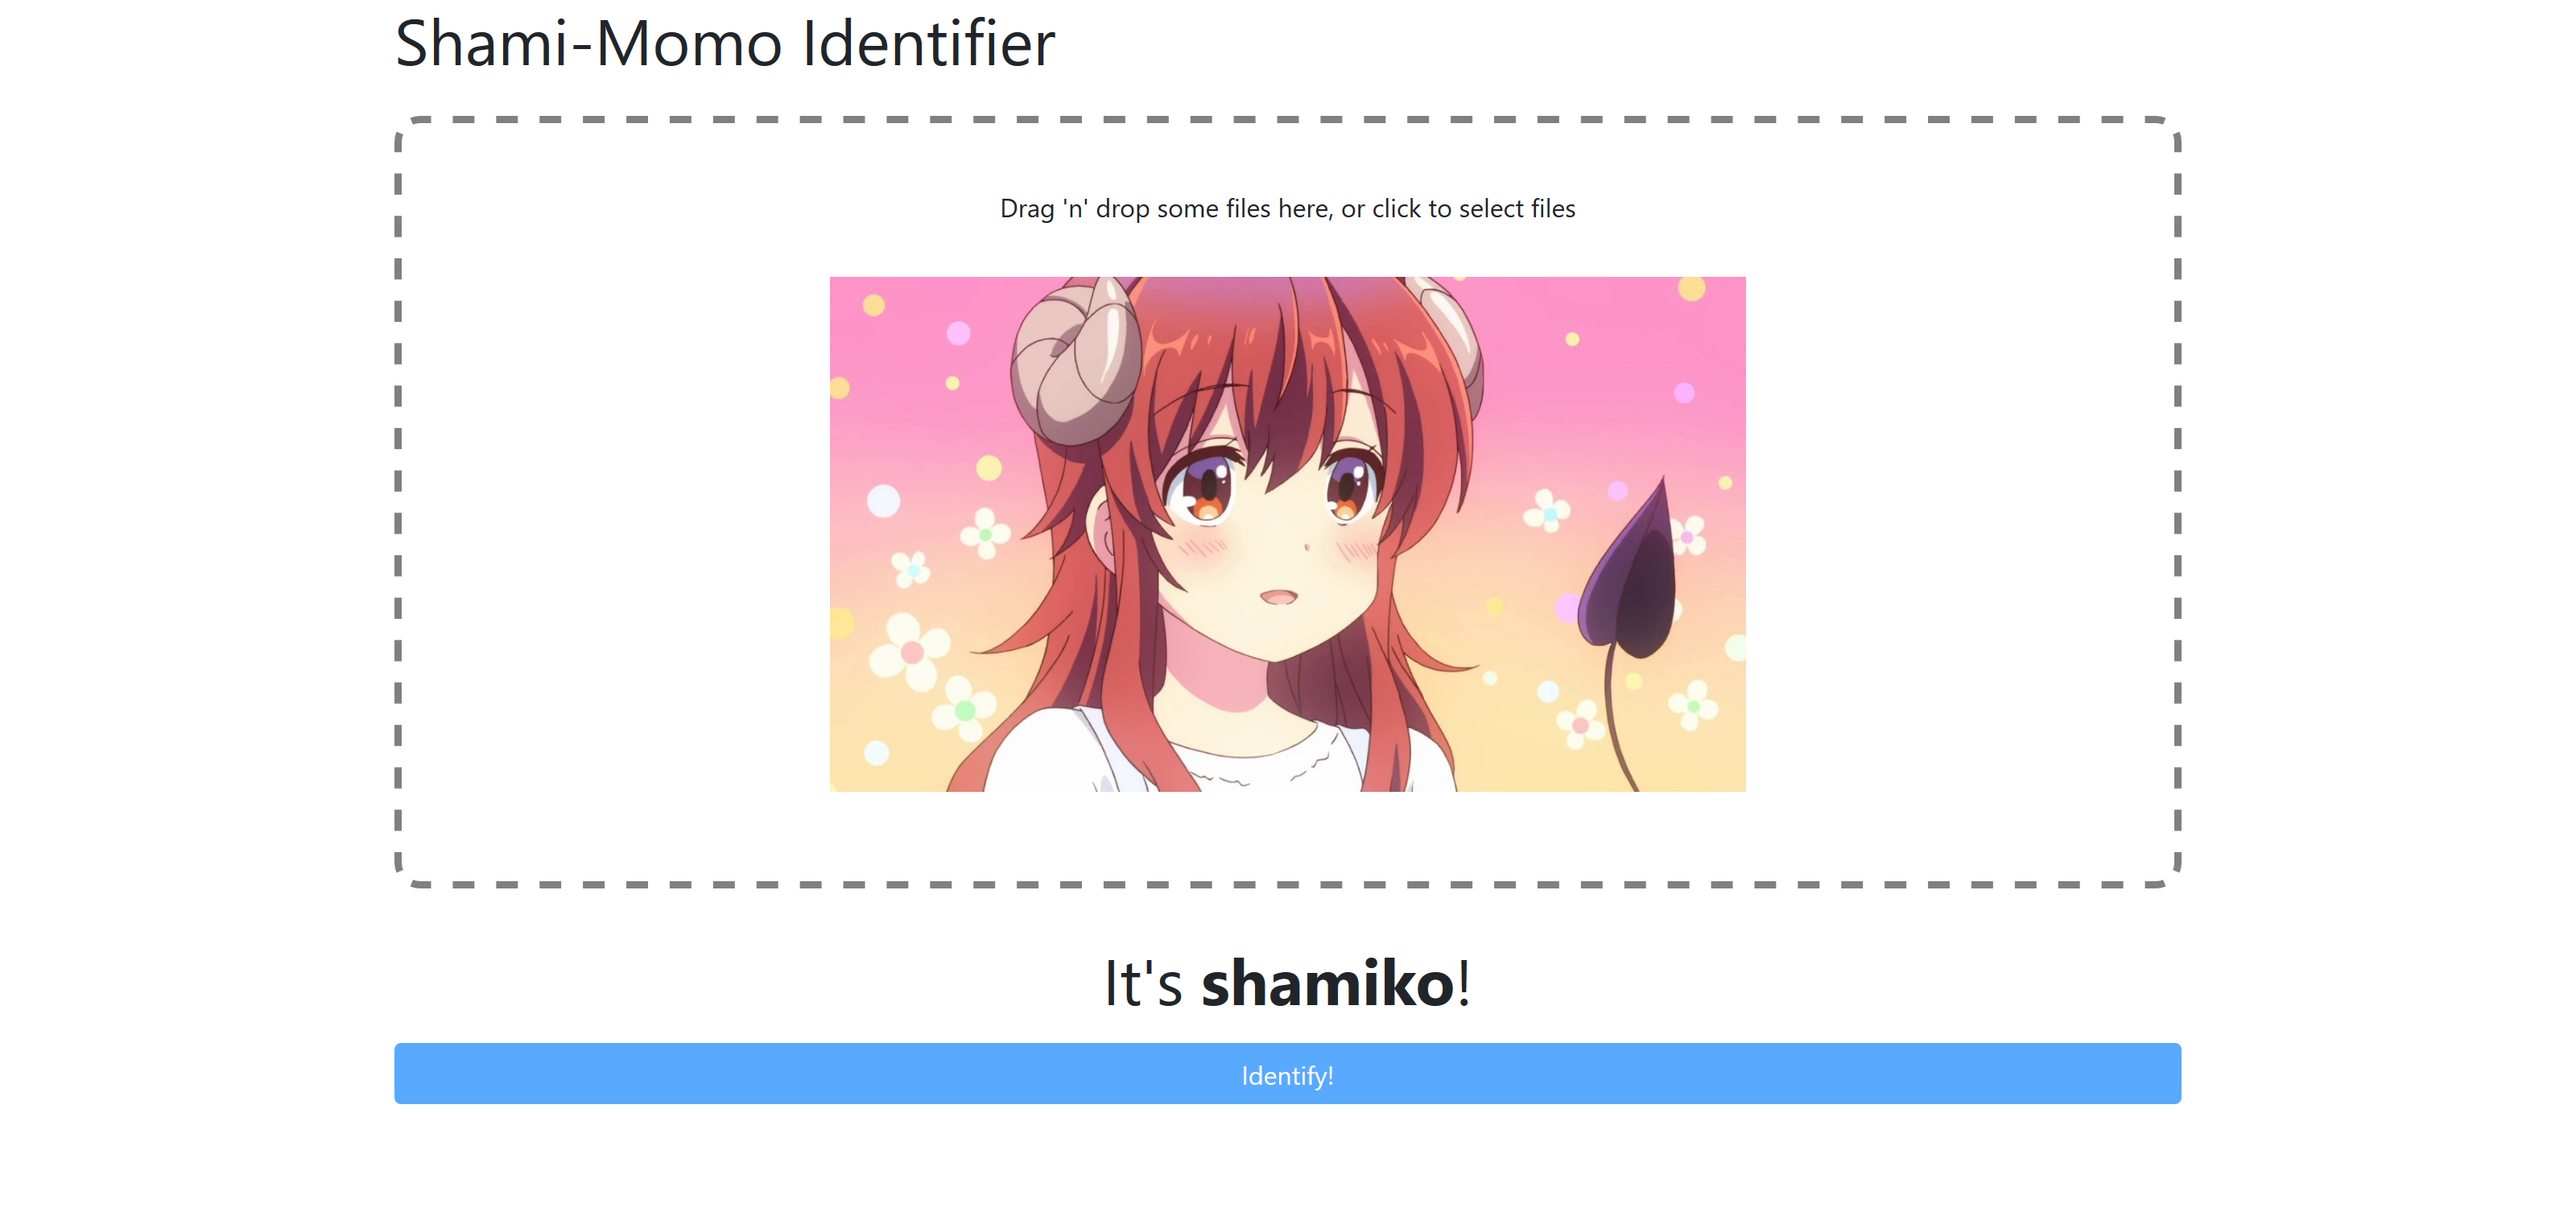
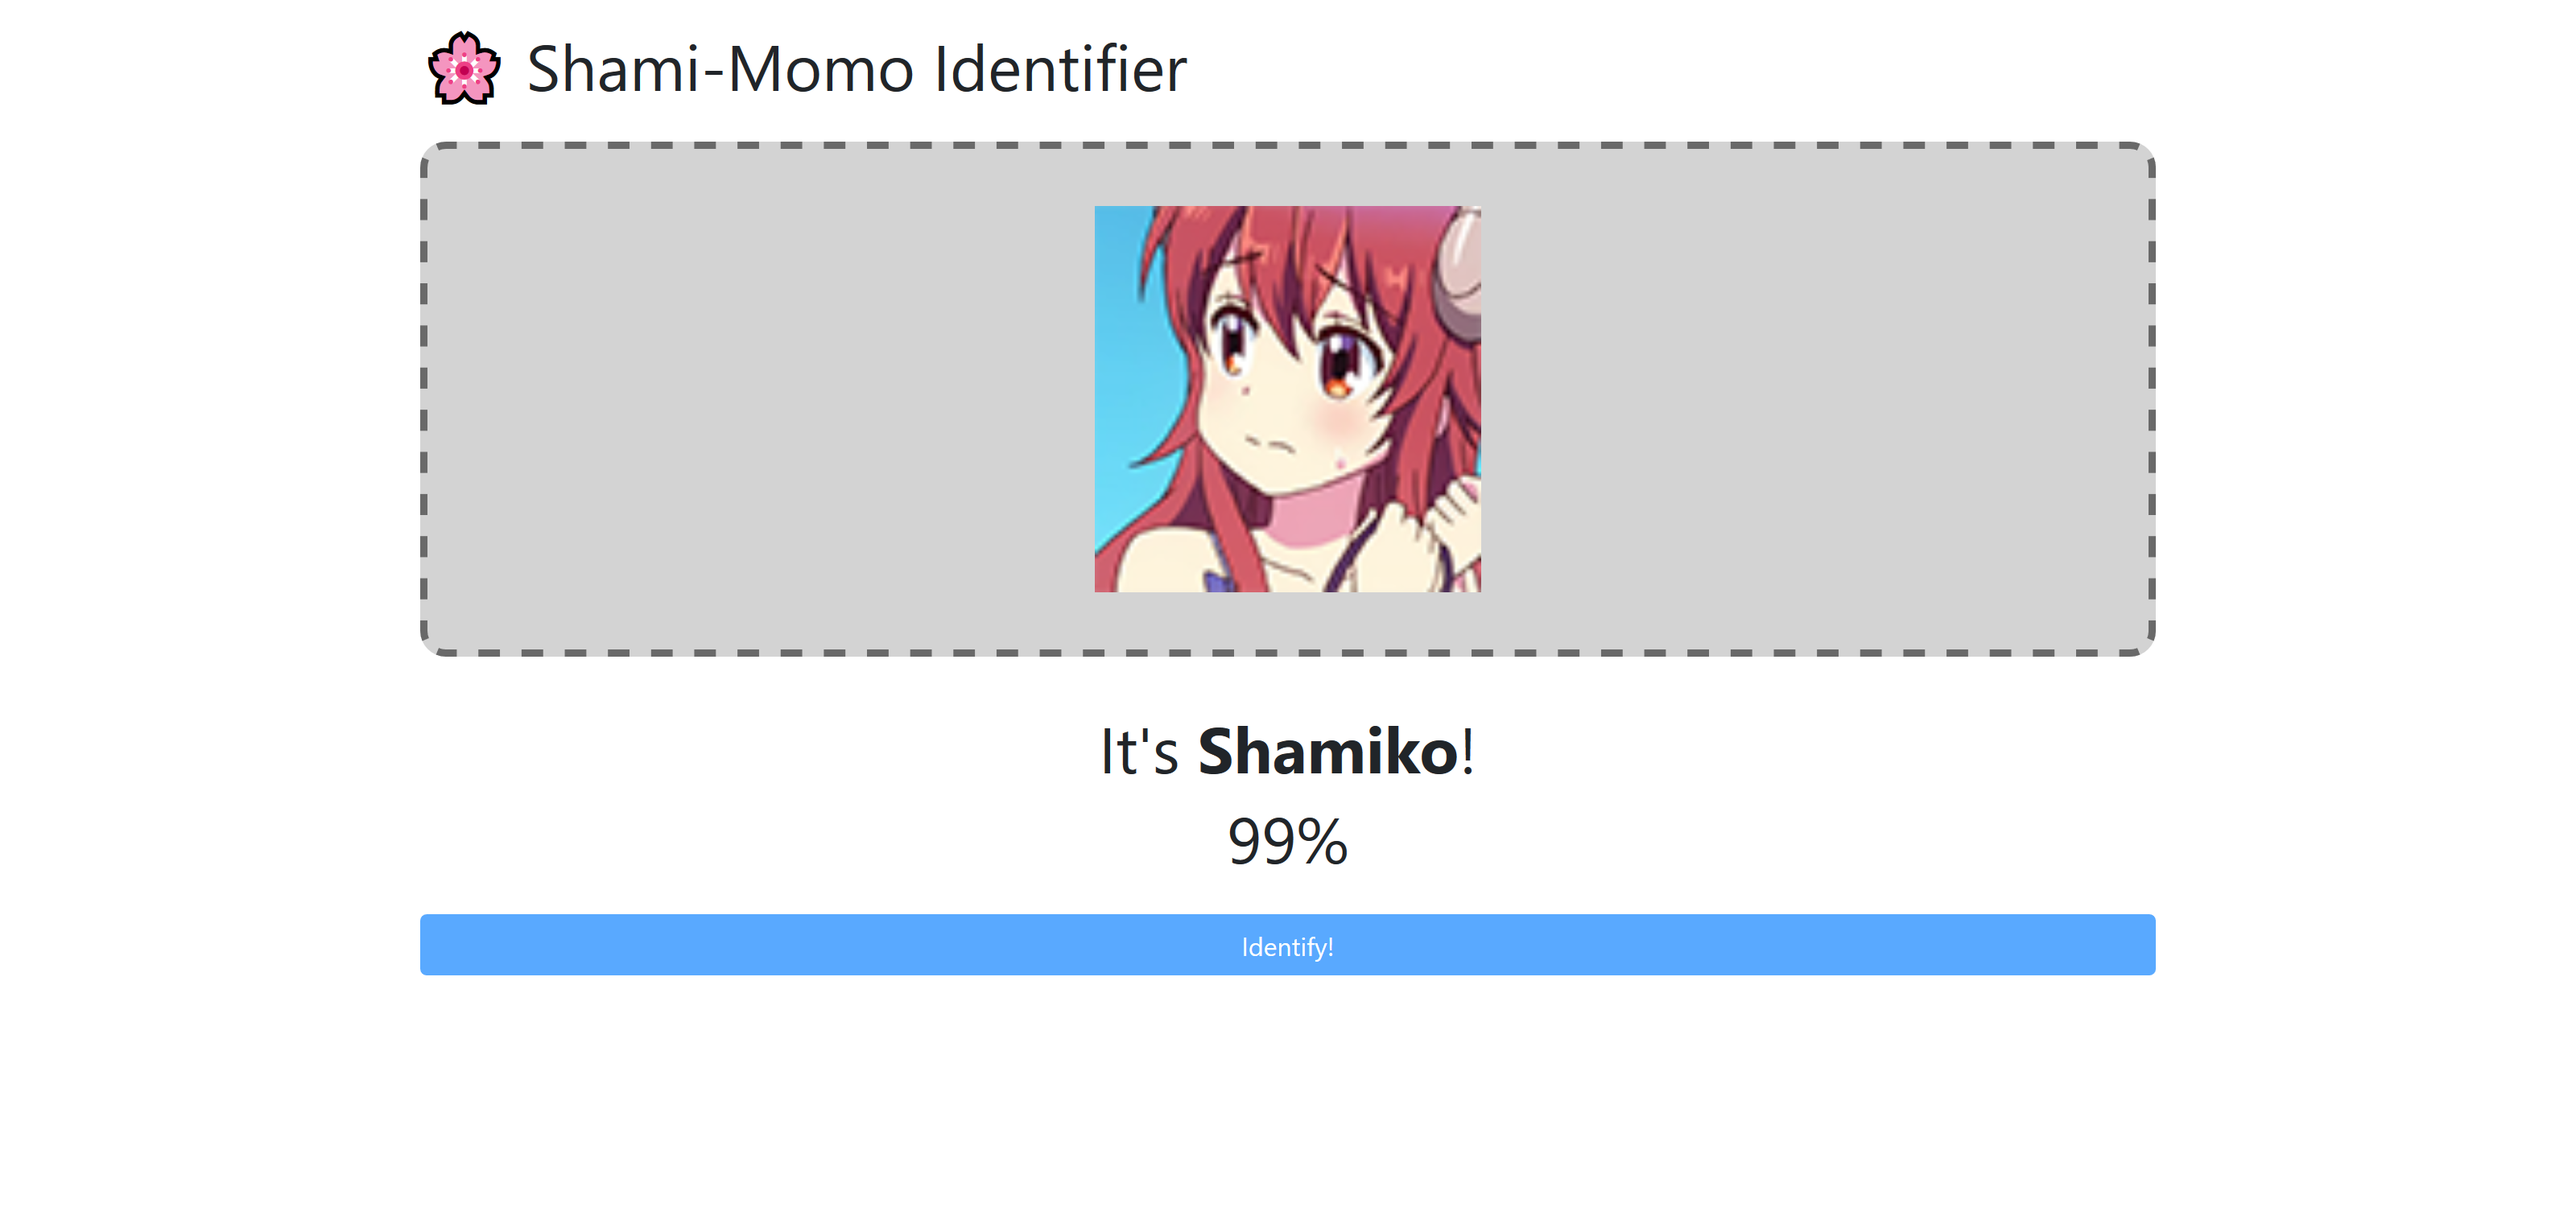
Improve look, add probability

diff --git a/web/src/screens/Identify.js b/web/src/screens/Identify.js
@@ -8,12 +8,16 @@ const Identify = props => {
 
     const [file, setFile] = useState(null);
     const [name, setName] = useState('');
+    const [probability, setProbability] = useState('');
     const [imgSrc, setImgSrc] = useState('');
+    const [isError, setIsError] = useState(false);
 
     const uploadImage = data => {
 
         setFile(data);
         setName('');
+        setProbability('');
+        setIsError(false);
 
         const reader = new FileReader();
         reader.onload = e => {
@@ -35,31 +39,59 @@ const Identify = props => {
                 }
             })
             .then(res => {
-                console.log(res.data);
-                setName(res.data.response);
+                setName(res.data.identity);
+                setProbability(res.data.probability)
                 setFile(null);
+            })
+            .catch(e => {
+                setIsError(true);
             });
+    }
+
+    let verdict;
+    if (isError) {
+        verdict = (
+            <div className="alert alert-danger">
+                ⚠ Error identifying image!
+            </div>
+        );
+    } else if (name !== '' && probability !== '') {
+        verdict = (
+            <div>
+                <h1 className="verdict-text">It's <strong>{name}</strong>!</h1>
+                <h1 className="verdict-text">{probability}%</h1>
+            </div>
+        );
     }
 
     return (
         <div className="container fluid">
-            <div className="d-flex flex-column">
+            <div className="d-flex flex-column m-3">
 
-                <h1>Shami-Momo Identifier</h1>
+                <h1>🌸 Shami-Momo Identifier</h1>
 
                 <div className="my-3">
                     <ImageDropzone uploadImage={uploadImage} imgSrc={imgSrc} />
                 </div>
 
+                <div className="my-3">
+                    {verdict}
+                </div>
+
                 {
-                    name === ''
-                        ? null
-                        : <h1 className="verdict-text my-3">It's <strong>{name}</strong>!</h1>
+                    file
+                        ? (
+                            <div className="btn btn-primary" onClick={e => identifyImage()}>
+                                Identify!
+                            </div>
+                        )
+                        : (
+                            <div className="btn btn-primary disabled" >
+                                Identify!
+                            </div>
+                        )
                 }
 
-                <div className={`btn btn-primary ${file ? '' : 'disabled'}`} onClick={e => identifyImage()}>
-                    Identify!
-                </div>
 
             </div>
         </div >

diff --git a/web/src/components/ImageDropzone.js b/web/src/components/ImageDropzone.js
@@ -1,5 +1,7 @@
-import React, { useCallback } from 'react'
-import { useDropzone } from 'react-dropzone'
+import React, { useCallback } from 'react';
+import { useDropzone } from 'react-dropzone';
+import { FontAwesomeIcon } from '@fortawesome/react-fontawesome';
+import { faUpload } from '@fortawesome/free-solid-svg-icons';
 
 const ImageDropzone = props => {
 
@@ -11,19 +13,24 @@ const ImageDropzone = props => {
 
     }, []);
 
-    const { getRootProps, getInputProps, isDragActive } = useDropzone({ onDrop });
+    const { getRootProps, getInputProps, isDragActive } = useDropzone({ onDrop, accept: 'image/*' });
 
     return (
-        <div {...getRootProps()} className="d-flex flex-column justify-content-center align-items-center drop-box">
+        <div
+            {...getRootProps()}
+            className="d-flex flex-column justify-content-center align-items-center drop-box"
+            style={{ backgroundColor: isDragActive ? 'gainsboro' : 'lightgray' }}
+        >
             <input {...getInputProps()} />
-            {
-                isDragActive
-                    ? <p>Drop the files here ...</p>
-                    : <p>Drag 'n' drop some files here, or click to select files</p>
-            }
+
             {
                 props.imgSrc === ''
-                    ? null
+                    ? (
+                        <div className="d-flex flex-column justify-content-center align-items-center">
+                            <FontAwesomeIcon icon={faUpload} className="drop-box-text my-2" />
+                            <p className="drop-box-text">Choose a file or drag it here</p>
+                        </div>
+                    )
                     : <img src={props.imgSrc} className="upload-img my-3" />
             }
         </div>

diff --git a/web/src/styles/style.css b/web/src/styles/style.css
@@ -1,15 +1,30 @@
+html {
+    min-height: 100%;
+}
+
+body {
+    margin: 0;
+    height: 100%;
+    background-image: white;
+}
+
 .drop-box {
-    min-height: 30em;
+    min-height: 20em;
     border: dashed;
     border-width: 0.3em;
     border-radius: 1em;
-    border-color: gray;
+    border-color: dimgray;
     outline: none;
     user-select: none;
 }
 
+.drop-box-text {
+    font-size: 1.5em;
+    color: dimgray;
+}
+
 .upload-img {
-    height: 20em;
+    height: 15em;
     object-fit: contain;
 }
 

diff --git a/web/public/index.html b/web/public/index.html
@@ -24,7 +24,7 @@
       work correctly both with client-side routing and a non-root public URL.
       Learn how to configure a non-root public URL by running `npm run build`.
     -->
-    <title>React App</title>
+    <title>Shami-Momo Identifier</title>
   </head>
   <body>
     <noscript>You need to enable JavaScript to run this app.</noscript>

diff --git a/backend/app.py b/backend/app.py
@@ -4,13 +4,14 @@ from flask_cors import CORS
 import onnxruntime as rt
 import numpy as np
 from PIL import Image
-import base64
+
+from utils import softmax
 
 app = Flask(__name__, static_folder='public/')
 app.config['MAX_CONTENT_LENGTH'] = 16 * 1024 * 1024
 CORS(app)
 
-classes = ['momo', 'shamiko']
+classes = ['Momo', 'Shamiko']
 
 # Load model
 sess = rt.InferenceSession('models/final_model.onnx')
@@ -54,4 +55,9 @@ def identify():
     out_data = sess.run(None, {input_name: in_data})
     out_data = np.nan_to_num(out_data)
 
-    return jsonify({"response": classes[np.argmax(out_data)]}), 200
+    probability = int(100*np.max(softmax(out_data)))
+
+    return jsonify({
+        "identity": classes[np.argmax(out_data)],
+        "probability": probability,
+    }), 200

diff --git a/backend/utils.py b/backend/utils.py
@@ -1,0 +1,8 @@
+import numpy as np
+
+def softmax(x):
+    """Compute softmax values for each sets of scores in x.
+    https://stackoverflow.com/questions/34968722/how-to-implement-the-softmax-function-in-python
+    """
+    e_x = np.exp(x - np.max(x))
+    return e_x / e_x.sum()
